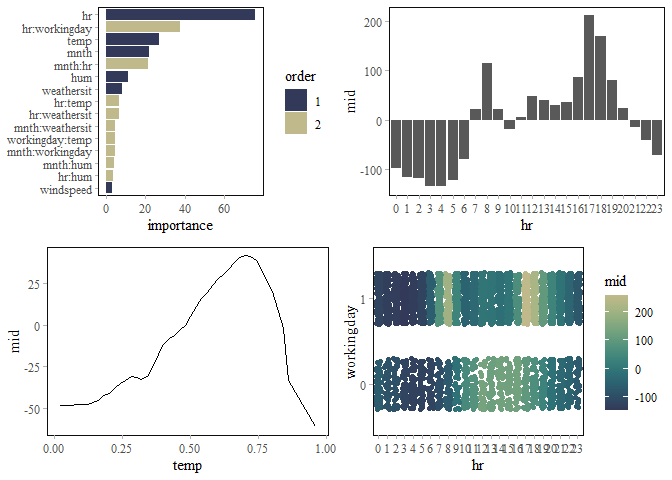
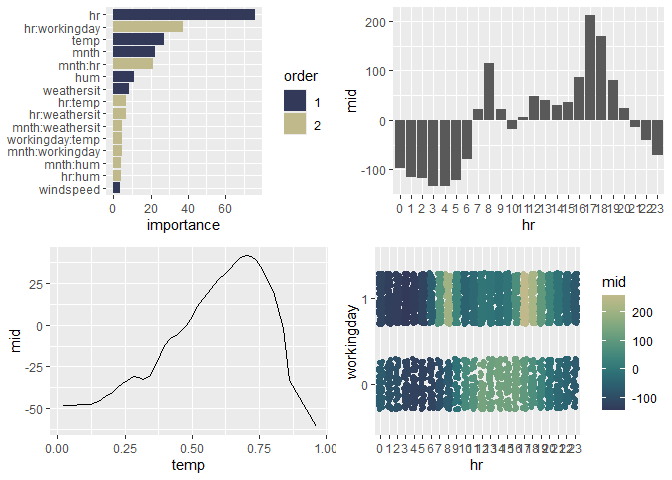
version 0.1.0.905 - renamed main functions

diff --git a/README.md b/README.md
@@ -35,7 +35,6 @@ library(midr)
 library(midnight)
 library(gridExtra)
 library(ISLR2)
-theme_set(theme_midr())
 ```
 
 ``` r
@@ -53,11 +52,9 @@ valid <- testing(holdout)
 
 ``` r
 # create a first-order mid surrogate model
-mid_spec_1 <- mid_surrogate() %>%
-  set_mode("regression") %>%
-  set_engine("midr")
+mid_spec_1 <- mid_reg()
 mid_spec_1
-#> mid surrogate Model Specification (regression)
+#> mid reg Model Specification (regression)
 #> 
 #> Computational engine: midr
 # fit the model
@@ -98,13 +95,11 @@ grid.arrange(nrow = 2,
 
 ``` r
 # create a second-order mid surrogate model via "custom formula"
-mid_spec_2 <- mid_surrogate(
+mid_spec_2 <- mid_reg(
   penalty = 0.000001, custom_formula = bikers ~ .^2
-) %>%
-  set_mode("regression") %>%
-  set_engine("midr")
+)
 mid_spec_2
-#> mid surrogate Model Specification (regression)
+#> mid reg Model Specification (regression)
 #> 
 #> Main Arguments:
 #>   penalty = 1e-06
@@ -163,16 +158,15 @@ persp(mid_2$fit, "temp:hr", theta = 50, phi = 20, shade = .5)
 
 ``` r
 # create a second-order mid surrogate model via "custom formula"
-mid_spec <- mid_surrogate(
+mid_spec <- mid_reg(
   params_main = tune(),
   params_inter = tune(),
   penalty = tune(),
   custom_formula = bikers ~ .^2
 ) %>%
-  set_mode("regression") %>%
   set_engine("midr", verbosity = 0)
 mid_spec
-#> mid surrogate Model Specification (regression)
+#> mid reg Model Specification (regression)
 #> 
 #> Main Arguments:
 #>   penalty = tune()
@@ -204,16 +198,15 @@ tune_best
 
 ``` r
 # create a second-order mid surrogate model via "custom formula"
-mid_spec <- mid_surrogate(
+mid_spec <- mid_reg(
   params_main = tune_best$params_main,
   params_inter = tune_best$params_inter,
   penalty = tune_best$penalty,
   custom_formula = bikers ~ .^2
 ) %>%
-  set_mode("regression") %>%
   set_engine("midr", verbosity = 0, singular.ok = TRUE)
 mid_spec
-#> mid surrogate Model Specification (regression)
+#> mid reg Model Specification (regression)
 #> 
 #> Main Arguments:
 #>   penalty = tune_best$penalty

diff --git a/NEWS.md b/NEWS.md
@@ -1,9 +1,10 @@
-# midnight (development version) 0.1.0.900-904
+# midnight (development version) 0.1.0.900-905
 
+- Renamed main functions (from `mid_surrogate()` to `mid_reg()`).
 - Added `persp.mid()`.
 - Added the "moon" and "moonlit" color themes
 - Added the package document.
-- Updated wrapper fit function `fit_mid_surrogate()` to improve memory efficiency.
+- Updated wrapper fit function `fit_mid_mid()` to improve memory efficiency.
 - Opened pkgdown website and added favicons.
-- Added `mid_surrogate()` and `make_mid_surrogate()`.
+- Added `mid_surrogate()` and `make_mid_mid()`.
 - Created the package hex logo.
